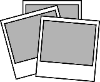
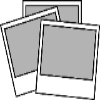
reto2

diff --git a/Tema 3/JAVASCRIPT/retos/reto2/index.html b/Tema 3/JAVASCRIPT/retos/reto2/index.html
@@ -11,11 +11,11 @@
             // Almacenamos los nombres de las imágenes en una letiable compleja.
             // Se denomina tabla y se accede a los valores mediante el indice (empezando por 0).
             // Por ejemplo: imagenes[0] contiene "rajoy.png"
-            let imagenes = ["rajoy.png", "leon.png", "manzana.png"];
+            let imagenes = ["./assets/img/cine.jpeg", "./assets/img/reloj.jpeg", "./assets/img/imagenes.jpeg"];
             // Almacenamos el indice de la imagen que esta en cada recuadro.
-            let cuadro = [ 0, 0, 0];
+            let cuadro = [ 0, 0, 0, 0];
             // Almacenamos el setInterval de cada recuadro de forma independiente.
-            let intervaloRuleta = [ null, null, null ];
+            let intervaloRuleta = [ null, null, null, null ];
             // letiable donde almacenamos el numero de recuadros que están cambiando.
             let corriendo = 0;
             // Intervalo del cambio de sombras.
@@ -39,8 +39,9 @@
                     
                     // Genera los intervalos para que cada recuadro cambie de imagen cada centésima de segundo.
                     intervaloRuleta[0] = setInterval(function() { cambiaImagen(0);}, 100);
-                    intervaloRuleta[1] = setInterval(function() { cambiaImagen(1);}, 50);
-                    intervaloRuleta[2] = setInterval(function() { cambiaImagen(2);}, 10);
+                    intervaloRuleta[1] = setInterval(function() { cambiaImagen(1);}, 75);
+                    intervaloRuleta[2] = setInterval(function() { cambiaImagen(2);}, 50);
+                    intervaloRuleta[3] = setInterval(function() { cambiaImagen(3);}, 20);
                     
                     // Al empezar están cambiando los tres recuadros.
                     corriendo = 3;
